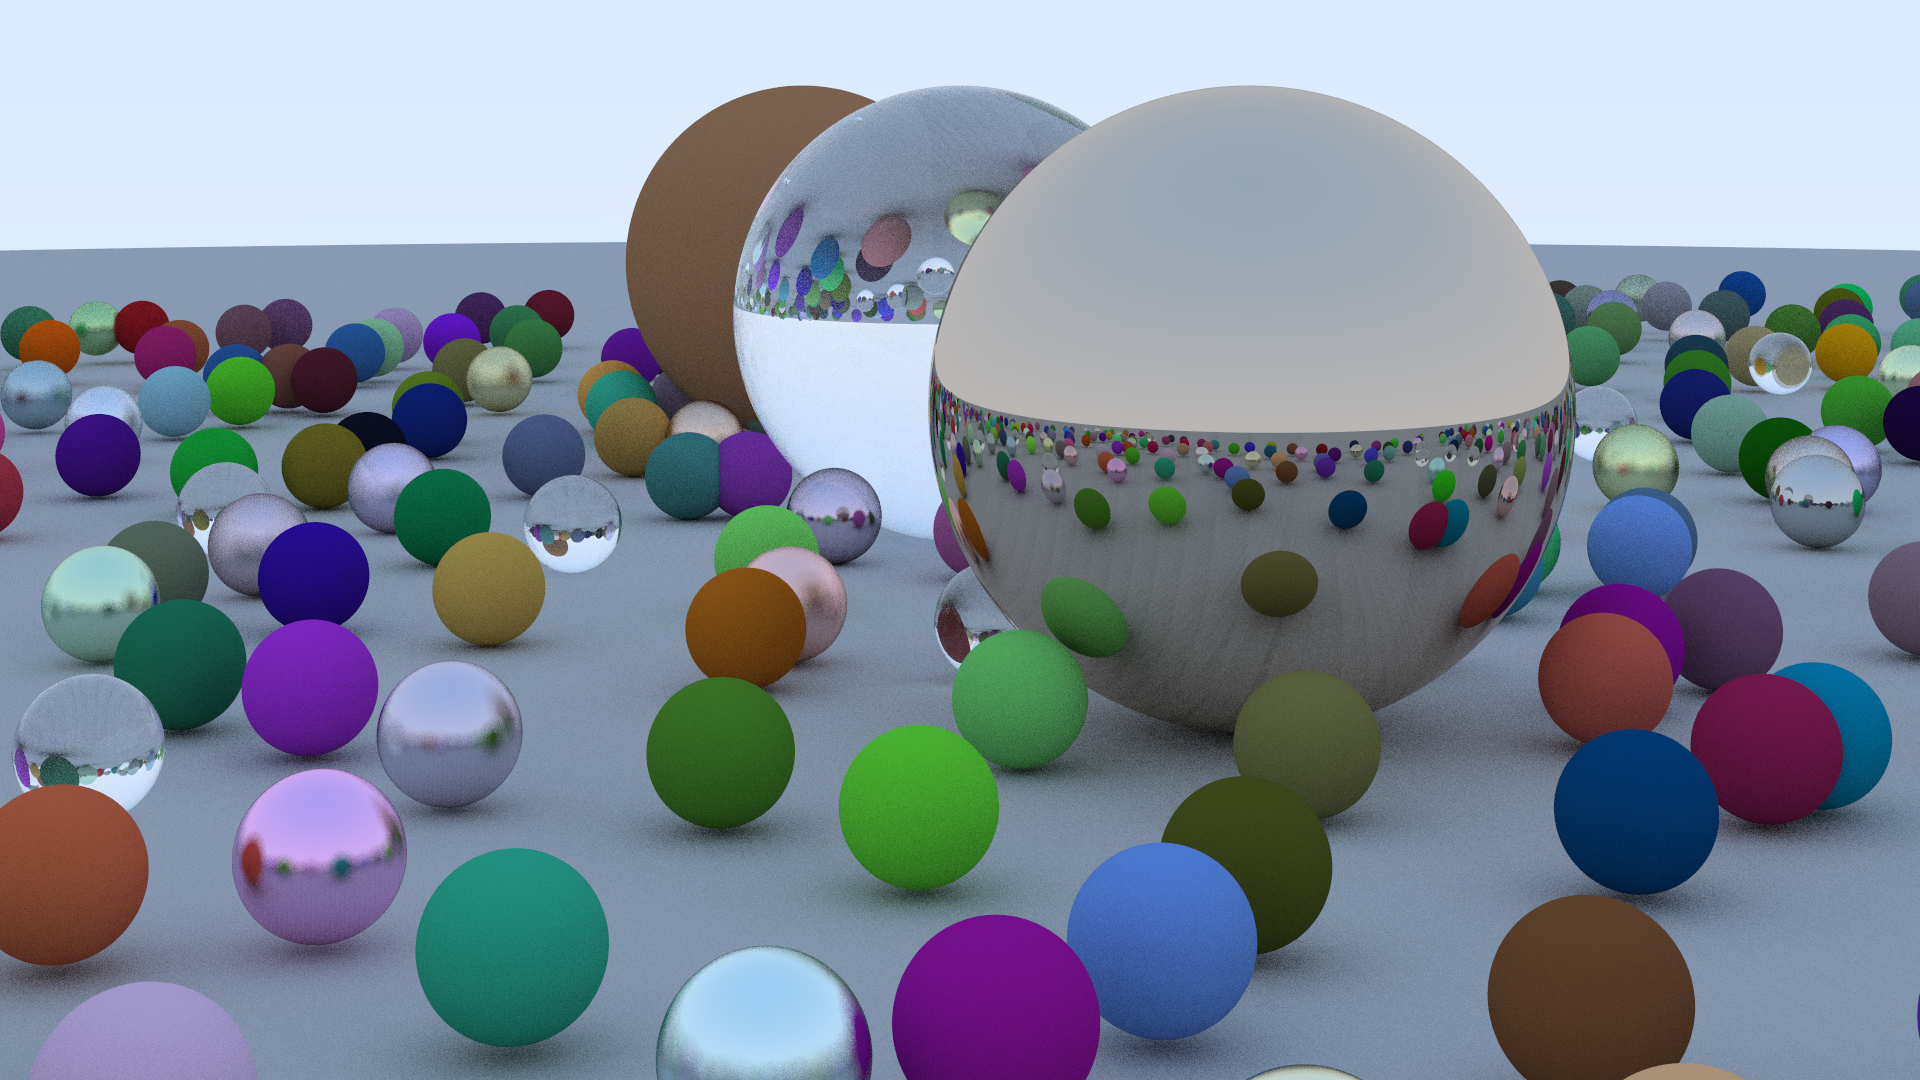
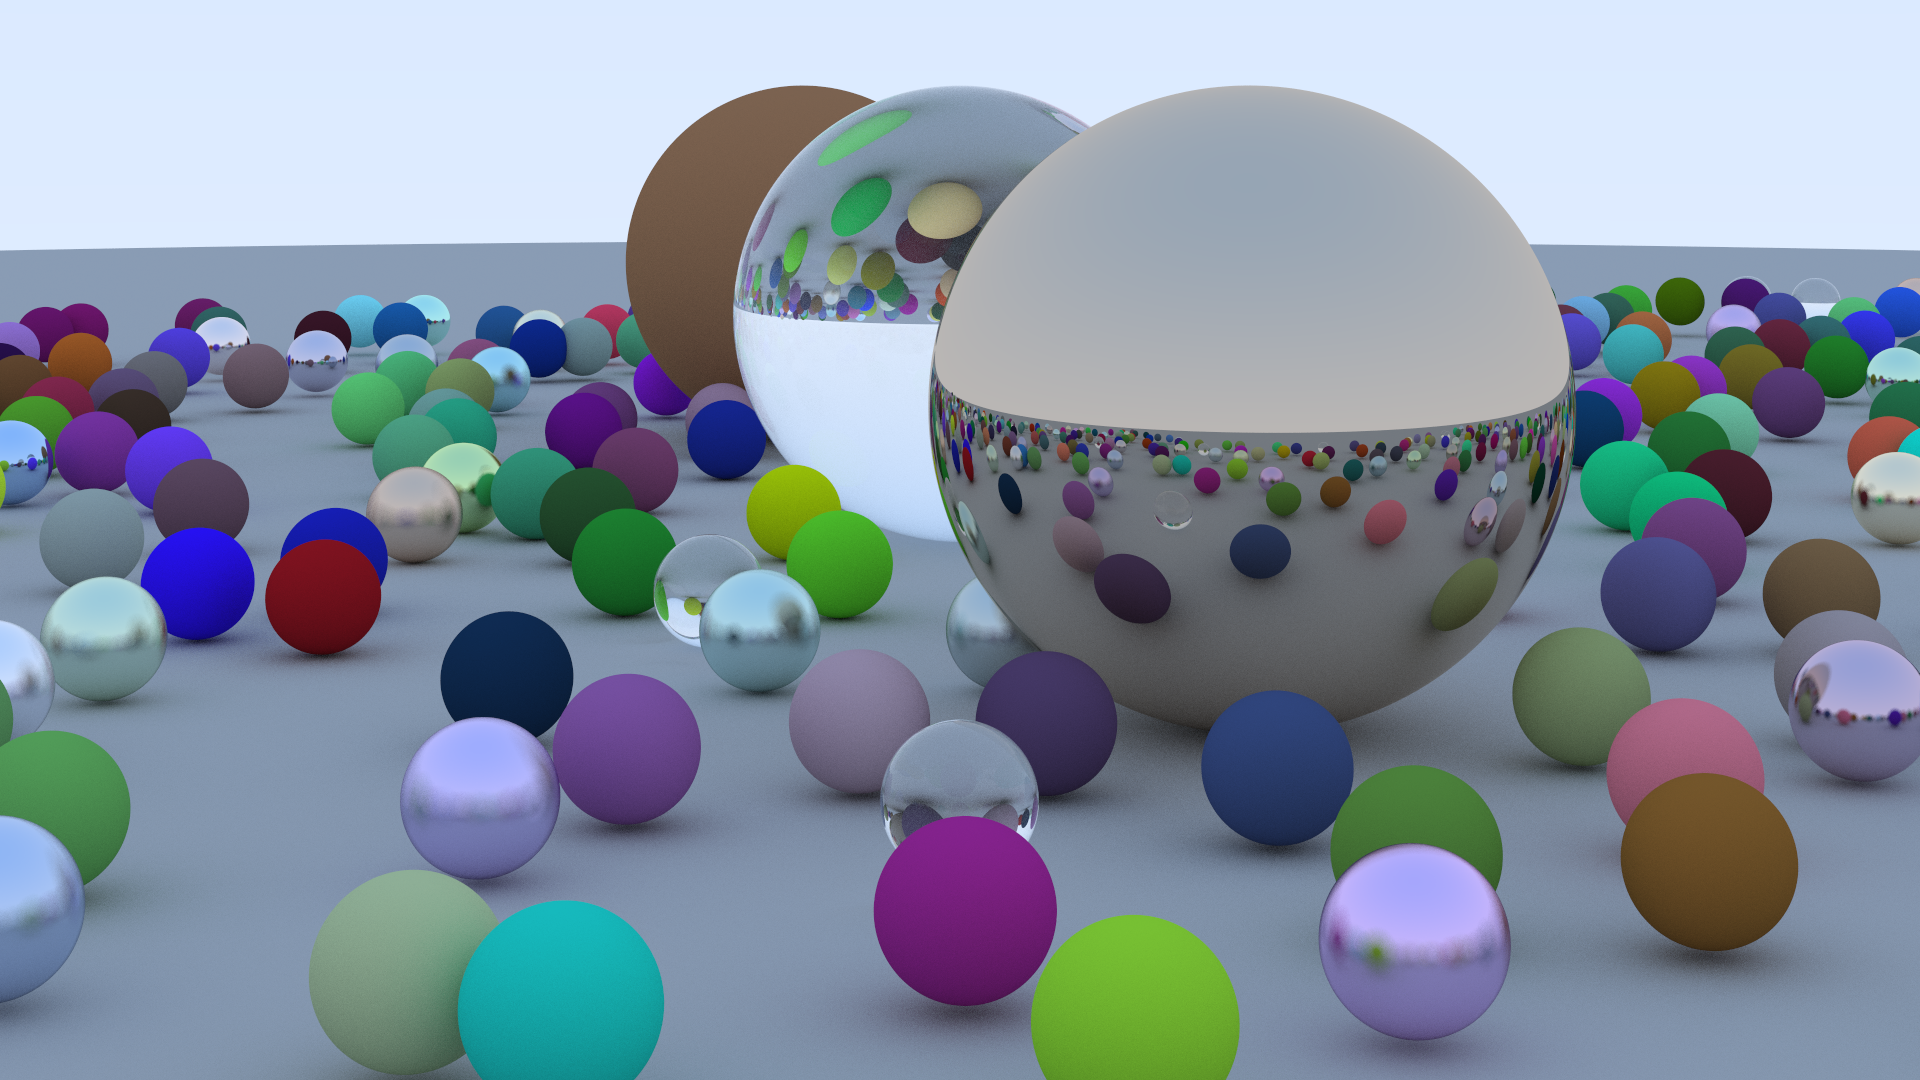
Fixed line artifacts

diff --git a/src/main/java/Main.java b/src/main/java/Main.java
@@ -91,7 +91,7 @@ public class Main {
             GL43.glUniform1i(GL43.glGetUniformLocation(program, "u_CurrentSample"), i);
             GL43.glBindImageTexture(0, outputTexture, 0, false, 0, GL43.GL_READ_WRITE, GL43.GL_RGBA32F);
             GL43.glDispatchCompute((WIDTH + 15) / 16, (HEIGHT + 15) / 16, 1);
-            GL43.glMemoryBarrier(GL43.GL_SHADER_IMAGE_ACCESS_BARRIER_BIT);
+            GL43.glMemoryBarrier(GL43.GL_SHADER_IMAGE_ACCESS_BARRIER_BIT | GL43.GL_TEXTURE_FETCH_BARRIER_BIT);
 
             GL43.glBindFramebuffer(GL43.GL_READ_FRAMEBUFFER, framebuffers);
             GL43.glFramebufferTexture2D(GL43.GL_READ_FRAMEBUFFER, GL43.GL_COLOR_ATTACHMENT0, GL43.GL_TEXTURE_2D, outputTexture, 0);
@@ -169,7 +169,11 @@ public class Main {
                 float y = 0.2f;
                 float z = b + 0.9f * (float)Math.random();
 
-                if((x-4)*(x-4)+(z*z) > 0.81){
+                boolean clearGlass = x*x + z*z > 0.81;
+                boolean clearLamb = (x+4)*(x+4) + z*z > 0.81;
+                boolean clearMetal = (x-4)*(x-4)+(z*z) > 0.81;
+
+                if(clearGlass && clearLamb && clearMetal){
                     Vec3 colour;
                     float matParam1 = 0.0f;
                     int material;
